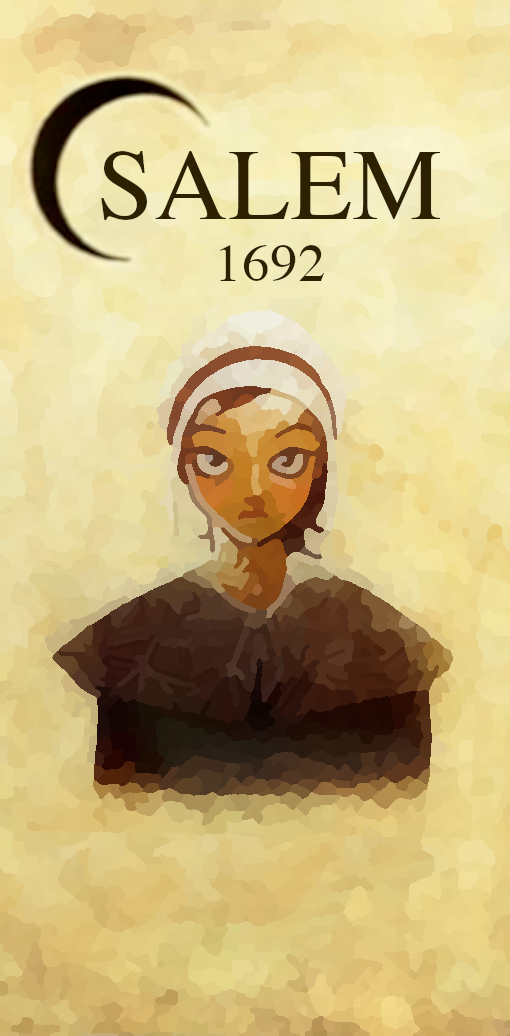
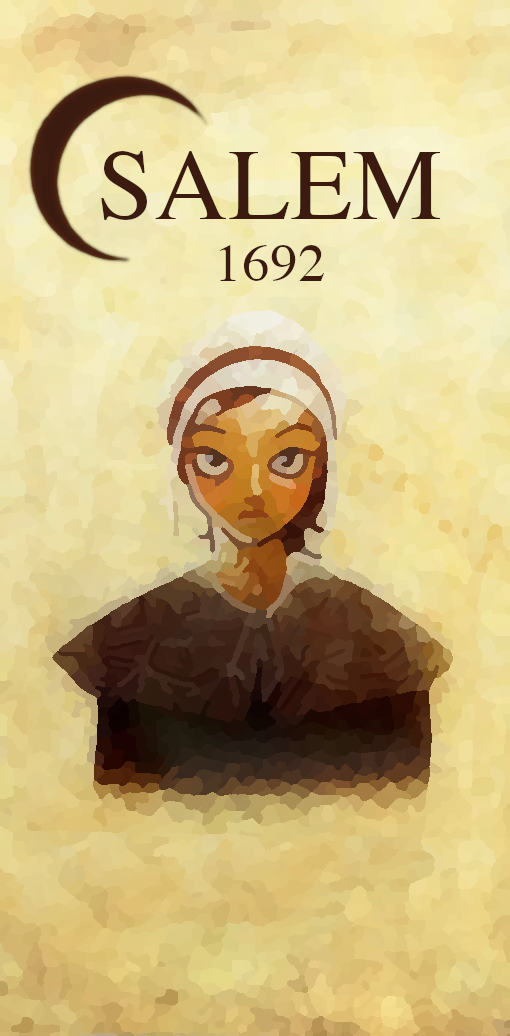
First working components: titlepage + buttons

Changed region(s): [[0.0588, 0.0618, 0.3824, 0.2471], [0.2059, 0.2471, 0.2353, 0.278]]

diff --git a/bundle.js b/bundle.js
@@ -8488,18 +8488,63 @@ if (process.env.NODE_ENV === 'production') {
 Object.defineProperty(exports, "__esModule", {
   value: true
 });
-exports.init = init;
+exports.getCurrentPage = getCurrentPage;
 exports.render = render;
+exports.init = init;
+exports.run = run;
 
 var React = _interopRequireWildcard(require("react"));
 
 var ReactDom = _interopRequireWildcard(require("react-dom"));
+
+var TitlePage$Salem1692 = _interopRequireWildcard(require("./components/TitlePage.bs.js"));
 
 function _getRequireWildcardCache(nodeInterop) { if (typeof WeakMap !== "function") return null; var cacheBabelInterop = new WeakMap(); var cacheNodeInterop = new WeakMap(); return (_getRequireWildcardCache = function (nodeInterop) { return nodeInterop ? cacheNodeInterop : cacheBabelInterop; })(nodeInterop); }
 
 function _interopRequireWildcard(obj, nodeInterop) { if (!nodeInterop && obj && obj.__esModule) { return obj; } if (obj === null || typeof obj !== "object" && typeof obj !== "function") { return { default: obj }; } var cache = _getRequireWildcardCache(nodeInterop); if (cache && cache.has(obj)) { return cache.get(obj); } var newObj = {}; var hasPropertyDescriptor = Object.defineProperty && Object.getOwnPropertyDescriptor; for (var key in obj) { if (key !== "default" && Object.prototype.hasOwnProperty.call(obj, key)) { var desc = hasPropertyDescriptor ? Object.getOwnPropertyDescriptor(obj, key) : null; if (desc && (desc.get || desc.set)) { Object.defineProperty(newObj, key, desc); } else { newObj[key] = obj[key]; } } } newObj.default = obj; if (cache) { cache.set(obj, newObj); } return newObj; }
 
 // Generated by ReScript, PLEASE EDIT WITH CARE
+function getCurrentPage(state) {
+  var match = state.currentPage;
+
+  switch (match) {
+    case
+    /* Title */
+    0:
+      return React.createElement(TitlePage$Salem1692.make, {});
+
+    case
+    /* Players */
+    1:
+      return React.createElement("div", undefined, "Players");
+
+    case
+    /* Turn */
+    2:
+      return React.createElement("div", undefined, "Turn");
+
+    case
+    /* NightWitch */
+    3:
+      return React.createElement("div", undefined, "Night - Witch");
+
+    case
+    /* NightConstable */
+    4:
+      return React.createElement("div", undefined, "Night - Constable");
+  }
+}
+
+function render(state) {
+  var root = document.querySelector("#root");
+
+  if (!(root == null)) {
+    ReactDom.render(getCurrentPage(state), root);
+  }
+
+  return state;
+}
+
 function init(param) {
   return {
     currentPage:
@@ -8512,18 +8557,20 @@ function init(param) {
   };
 }
 
-function render(state) {
-  var root = document.querySelector("#root");
-
-  if (!(root == null)) {
-    ReactDom.render(React.createElement("div", undefined, "Hello, World!"), root);
-  }
-
-  return state;
+function run(param) {
+  return render({
+    currentPage:
+    /* Title */
+    0,
+    currentLang:
+    /* NL */
+    0,
+    currentPlayers: []
+  });
 }
 /* react Not a pure module */
 
-},{"react":8,"react-dom":5}],18:[function(require,module,exports){
+},{"./components/TitlePage.bs.js":21,"react":8,"react-dom":5}],18:[function(require,module,exports){
 // Generated by ReScript, PLEASE EDIT WITH CARE
 /* This output is empty. Its source's type definitions, externals and/or unused code got optimized away. */
 
@@ -8542,15 +8589,10 @@ function _interopRequireWildcard(obj, nodeInterop) { if (!nodeInterop && obj && 
  * ReactJS       : https://reactjs.org/docs/getting-started.html
  */
 class App {
-  constructor() {
-    this.state = Main.init();
-  }
+  constructor() {}
 
   run() {
-    this.state = Main.render({
-      state: this.state
-    });
-    console.log(this.state);
+    Main.run();
   }
 
 }
@@ -8563,7 +8605,7 @@ window.App = App;
 Object.defineProperty(exports, "__esModule", {
   value: true
 });
-exports.make = make;
+exports.make = void 0;
 
 var React = _interopRequireWildcard(require("react"));
 
@@ -8572,14 +8614,85 @@ function _getRequireWildcardCache(nodeInterop) { if (typeof WeakMap !== "functio
 function _interopRequireWildcard(obj, nodeInterop) { if (!nodeInterop && obj && obj.__esModule) { return obj; } if (obj === null || typeof obj !== "object" && typeof obj !== "function") { return { default: obj }; } var cache = _getRequireWildcardCache(nodeInterop); if (cache && cache.has(obj)) { return cache.get(obj); } var newObj = {}; var hasPropertyDescriptor = Object.defineProperty && Object.getOwnPropertyDescriptor; for (var key in obj) { if (key !== "default" && Object.prototype.hasOwnProperty.call(obj, key)) { var desc = hasPropertyDescriptor ? Object.getOwnPropertyDescriptor(obj, key) : null; if (desc && (desc.get || desc.set)) { Object.defineProperty(newObj, key, desc); } else { newObj[key] = obj[key]; } } } newObj.default = obj; if (cache) { cache.set(obj, newObj); } return newObj; }
 
 // Generated by ReScript, PLEASE EDIT WITH CARE
-function make(name) {
-  return React.createElement("div", {
-    id: "title-page"
-  }, "Hello " + name + "!");
+function Button(Props) {
+  var buttonType = Props.buttonType;
+  var label = Props.label;
+  var className;
+
+  switch (buttonType) {
+    case
+    /* RegularFirst */
+    0:
+      className = "button-first";
+      break;
+
+    case
+    /* RegularSecond */
+    1:
+      className = "button-second";
+      break;
+
+    case
+    /* RegularThird */
+    2:
+      className = "button-third";
+      break;
+  }
+
+  return React.createElement("button", {
+    className: className
+  }, label);
 }
+
+var make = Button;
 /* react Not a pure module */
 
+exports.make = make;
+
 },{"react":8}],21:[function(require,module,exports){
+"use strict";
+
+Object.defineProperty(exports, "__esModule", {
+  value: true
+});
+exports.make = void 0;
+
+var React = _interopRequireWildcard(require("react"));
+
+var Button$Salem1692 = _interopRequireWildcard(require("./Button.bs.js"));
+
+function _getRequireWildcardCache(nodeInterop) { if (typeof WeakMap !== "function") return null; var cacheBabelInterop = new WeakMap(); var cacheNodeInterop = new WeakMap(); return (_getRequireWildcardCache = function (nodeInterop) { return nodeInterop ? cacheNodeInterop : cacheBabelInterop; })(nodeInterop); }
+
+function _interopRequireWildcard(obj, nodeInterop) { if (!nodeInterop && obj && obj.__esModule) { return obj; } if (obj === null || typeof obj !== "object" && typeof obj !== "function") { return { default: obj }; } var cache = _getRequireWildcardCache(nodeInterop); if (cache && cache.has(obj)) { return cache.get(obj); } var newObj = {}; var hasPropertyDescriptor = Object.defineProperty && Object.getOwnPropertyDescriptor; for (var key in obj) { if (key !== "default" && Object.prototype.hasOwnProperty.call(obj, key)) { var desc = hasPropertyDescriptor ? Object.getOwnPropertyDescriptor(obj, key) : null; if (desc && (desc.get || desc.set)) { Object.defineProperty(newObj, key, desc); } else { newObj[key] = obj[key]; } } } newObj.default = obj; if (cache) { cache.set(obj, newObj); } return newObj; }
+
+// Generated by ReScript, PLEASE EDIT WITH CARE
+function TitlePage(Props) {
+  return React.createElement("div", {
+    id: "title-page"
+  }, React.createElement(Button$Salem1692.make, {
+    buttonType:
+    /* RegularFirst */
+    0,
+    label: "New Game"
+  }), React.createElement(Button$Salem1692.make, {
+    buttonType:
+    /* RegularSecond */
+    1,
+    label: "Setup"
+  }), React.createElement(Button$Salem1692.make, {
+    buttonType:
+    /* RegularThird */
+    2,
+    label: "Exit"
+  }));
+}
+
+var make = TitlePage;
+/* react Not a pure module */
+
+exports.make = make;
+
+},{"./Button.bs.js":20,"react":8}],22:[function(require,module,exports){
 "use strict";
 
 Object.defineProperty(exports, "__esModule", {
@@ -8599,7 +8712,7 @@ var table = Js_dict.fromArray([["Start Game", "Spel starten"], ["Exit", "Afsluit
 
 exports.table = table;
 
-},{"rescript/lib/es6/js_dict.js":10}],22:[function(require,module,exports){
+},{"rescript/lib/es6/js_dict.js":10}],23:[function(require,module,exports){
 "use strict";
 
 Object.defineProperty(exports, "__esModule", {
@@ -8636,4 +8749,4 @@ function getTranslator(language, message) {
 }
 /* NL_NL-Salem1692 Not a pure module */
 
-},{"./NL_NL.bs.js":21,"rescript/lib/es6/js_dict.js":10}]},{},[22,21,18,20,17,19]);
+},{"./NL_NL.bs.js":22,"rescript/lib/es6/js_dict.js":10}]},{},[23,22,18,20,21,17,19]);

diff --git a/index.html b/index.html
@@ -1,4 +1,4 @@
-<!doctype html>
+<!DOCTYPE html>
 <html>
     <head>
         <meta charset="utf-8">
@@ -37,12 +37,13 @@
             body {
                 background-image: url(images/title-page.png);
                 background-size: 100vw 100vh;
-            }
-            body,
-            #root {
                 height: 100vh;
                 width: 100vw;
                 overflow: hidden;
+            }
+            #root {
+                width: 100%;
+                height: 100%;
             }
         </style>
     </head>
